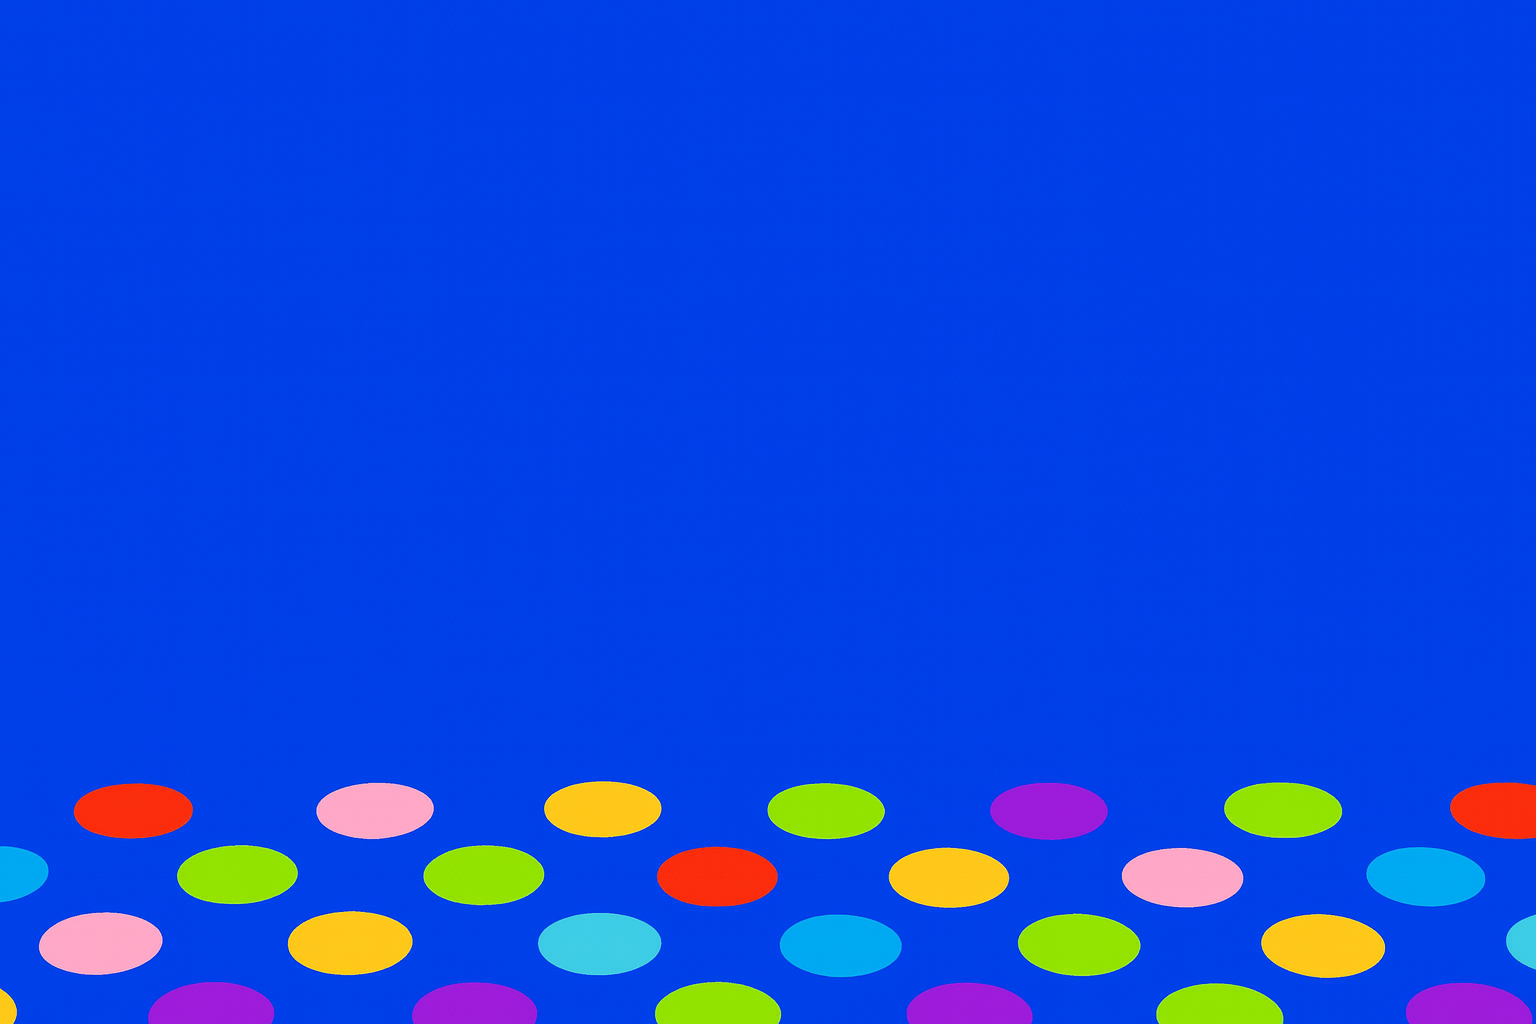
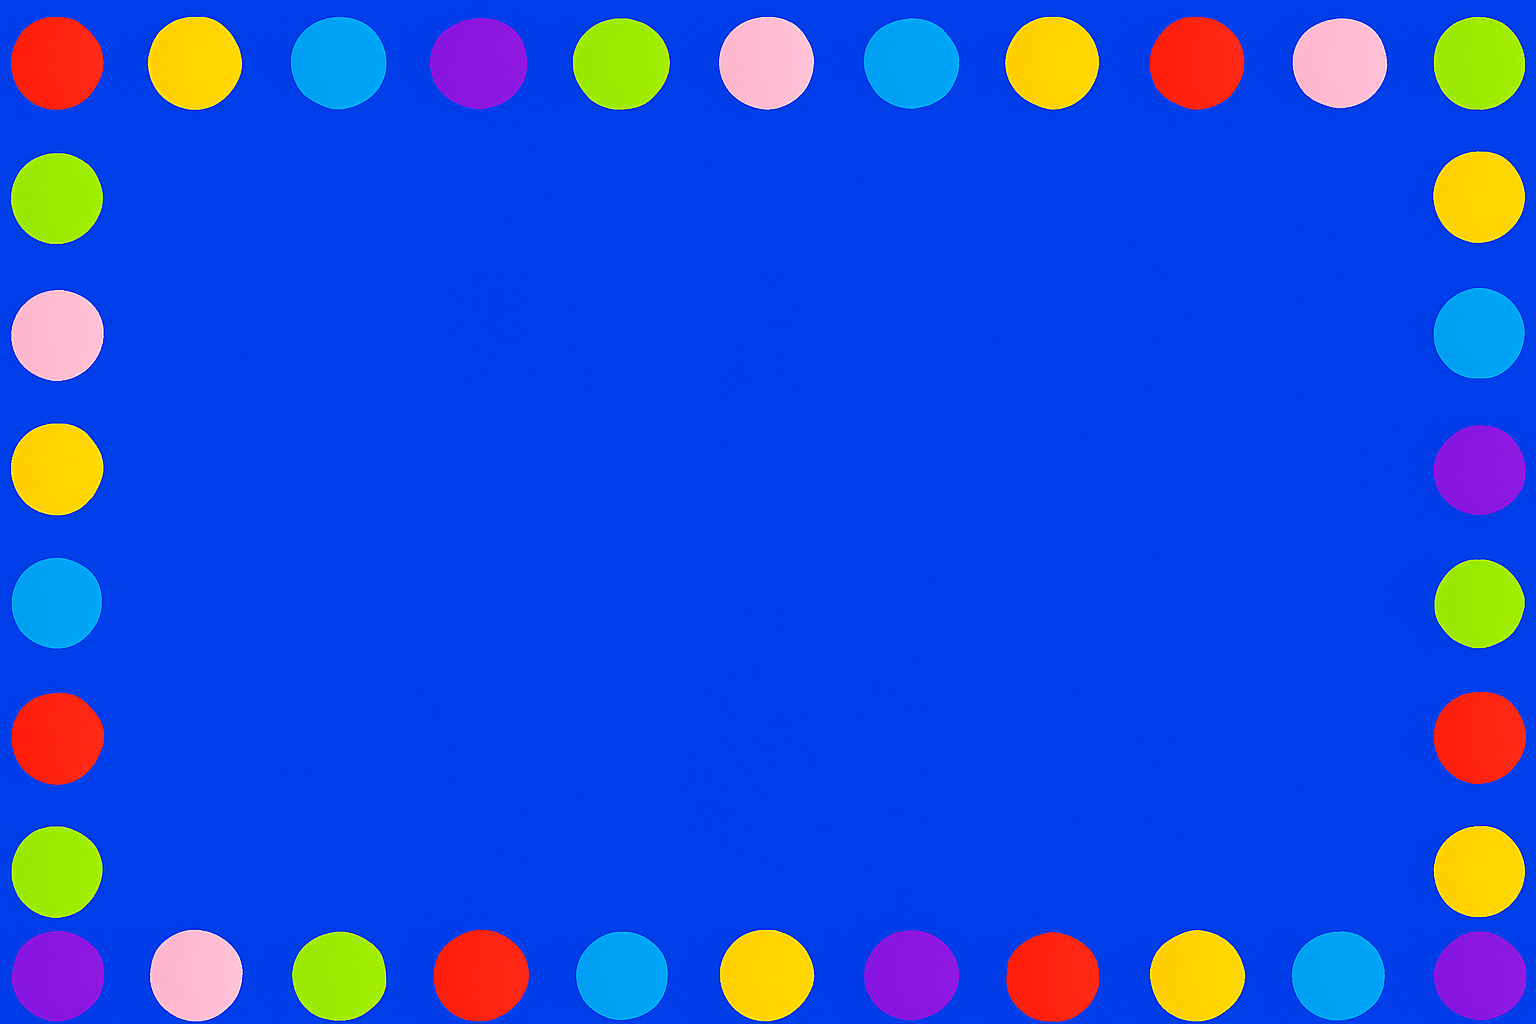
Gameplay styling host screen

diff --git a/frontend/src/pages/PlayGame.jsx b/frontend/src/pages/PlayGame.jsx
@@ -9,6 +9,7 @@ import { useNavigate, useParams } from "react-router-dom";
 import { getSocket } from "../services/socket";
 import { api } from "../services/api";
 import backgroundGamePlay from "../assets/background_gamePlay.jpg";
+import backgroundWaitHost from "../assets/background_waitHost.jpg";
 import GameHeader from "../components/GameHeader";
 import QuestionCard from "../components/QuestionCard";
 import GameOverScreen from "../components/GameOverScreen";
@@ -295,17 +296,17 @@ export default function PlayGame() {
   if (!question) {
     return (
       <div
-        className="min-h-screen flex flex-col items-center justify-center text-white relative overflow-hidden"
-        style={{ backgroundColor: colors.darkBlue }}
+        className="min-h-screen flex flex-col items-center justify-center text-white relative overflow-hidden bg-cover bg-center bg-no-repeat"
+        style={{ backgroundImage: `url(${backgroundWaitHost})` }}
       >
-        <div className="absolute inset-0 bg-gradient-to-br from-[#0A2442] via-[#143B6E] to-[#0A2442] opacity-60 animate-[pulse_3s_infinite]" />
+        <div className="absolute inset-0 bg-black/30 animate-[pulse_3s_infinite]" />
         <div className="relative z-10 flex flex-col items-center">
-          <div className="w-16 h-16 border-4 border-t-transparent border-[#6EC5FF] rounded-full animate-spin mb-8"></div>
-          <h1 className="text-3xl font-heading font-semibold mb-3 tracking-wide">
-            Waiting for Host...
+          <div className="w-20 h-20 border-4 border-t-transparent border-[#6EC5FF] rounded-full animate-spin mb-8"></div>
+          <h1 className="text-4xl font-heading font-black mb-4 tracking-wide drop-shadow-lg">
+            WAITING FOR HOST...
           </h1>
-          <p className="text-[#6EC5FF] text-lg animate-pulse">
-            The game will begin shortly
+          <p className="text-[#6EC5FF] text-xl font-heading animate-pulse drop-shadow-md">
+            THE GAME WILL BEGIN SHORTLY
           </p>
         </div>
       </div>
